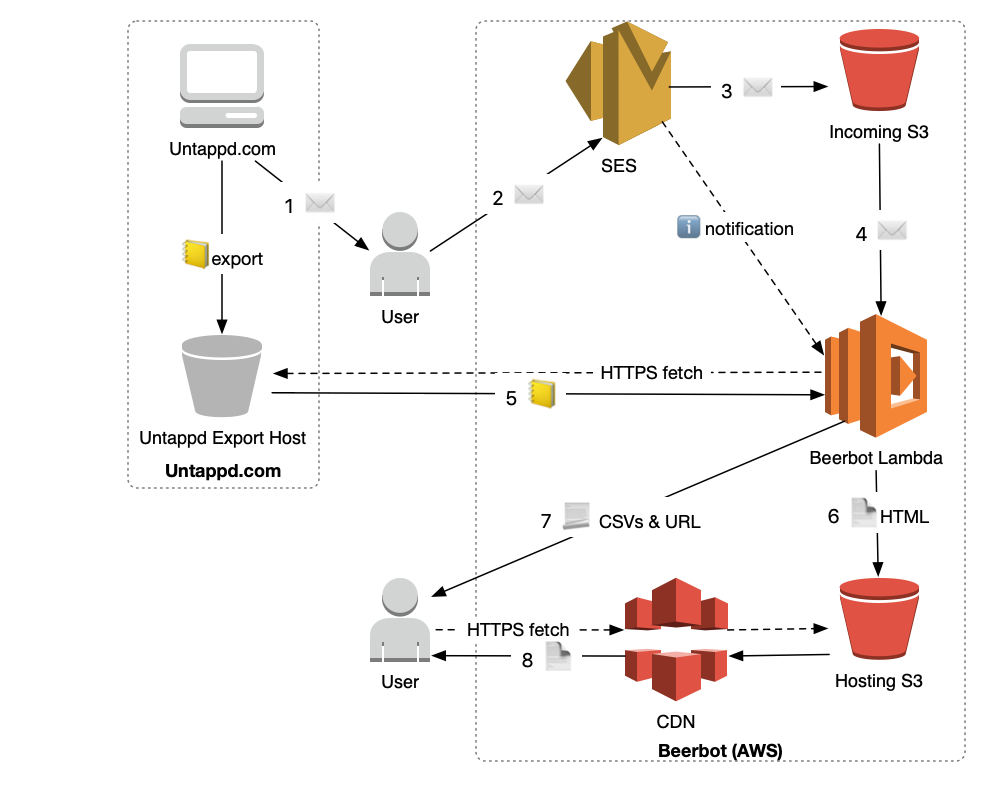
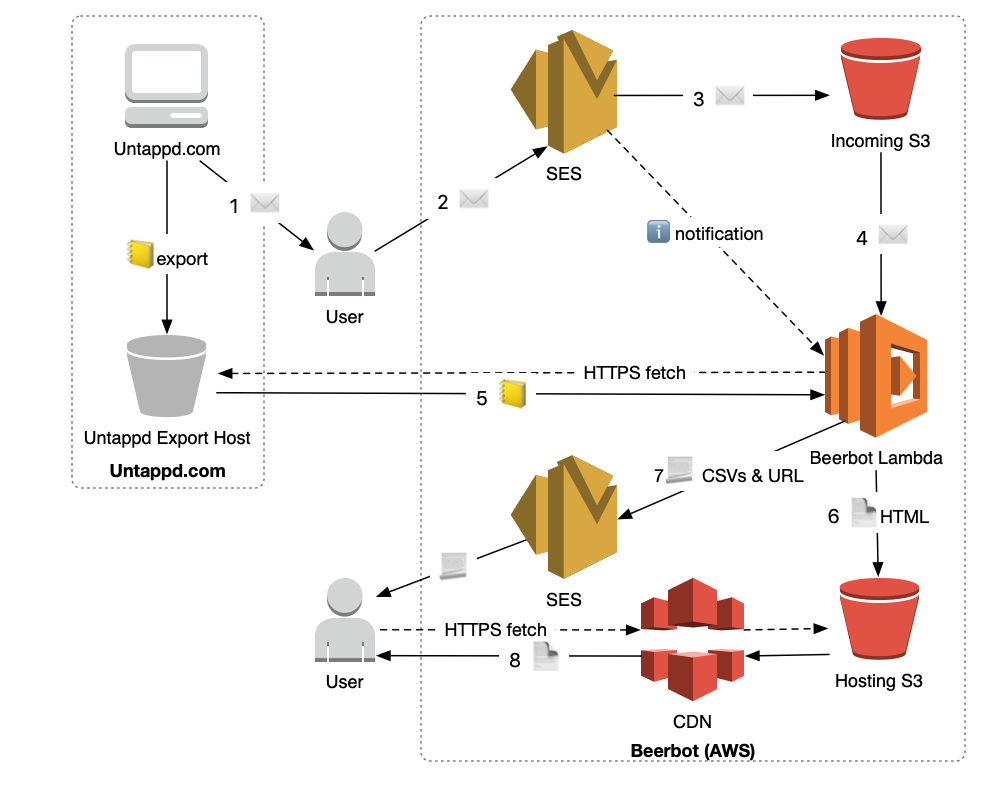
Add outgoing SES to workflow docs

diff --git a/LAMBDA.md b/LAMBDA.md
@@ -8,5 +8,5 @@
 1) The lambda fetches the email and parses it to find the download link.
 1) The lambda fetches the export from the URL given in the email
 1) The lambda processes the export and produces CSV and HTML reports. The HTML report is stored to a bucket linked to a CDN.
-1) The lambda packs the URL of the HTML report, together with the CSV files, into an email and sends this to the user.
+1) The lambda packs the URL of the HTML report, together with the CSV files, into an email and sends this through SES to the user.
 1) The user can now download the HTML on demand via the CDN.
